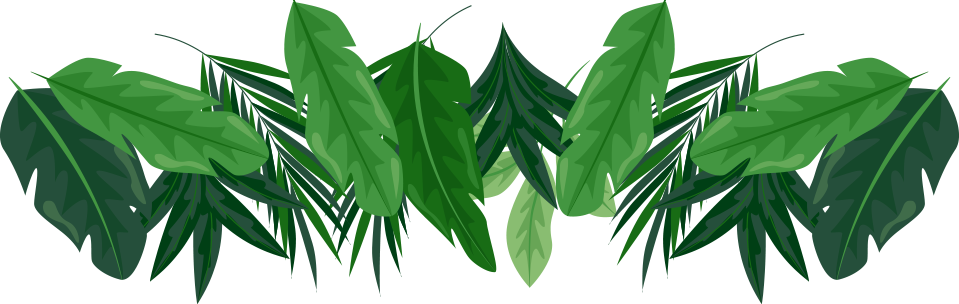
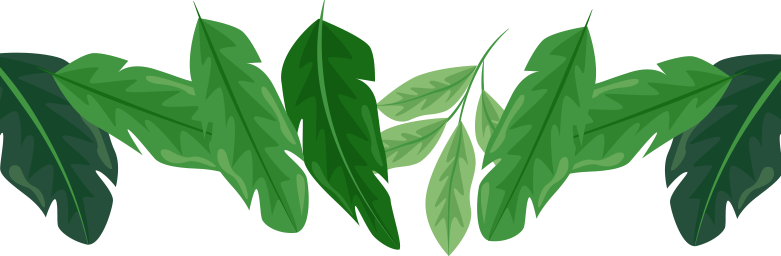
更新頁首的草叢_上、草叢_下圖片，依新尺寸重算位移
- 草叢_上：959×304 → 781×256，上移改為 5.46vw
- 草叢_下：819×317 → 781×283，下移改為 6.04vw
- 註解補上「換圖時尺寸改變要重算」的提醒

diff --git a/src/components/Header/Header.module.css b/src/components/Header/Header.module.css
@@ -6,13 +6,14 @@
   color: #fff;
   box-shadow: var(--shadow-sm);
   /* 頁首背景：四層疊在一起（寫在前面的在上層）
-       1. 草叢_上（959×304）：橫向排 3 張，貼齊頂端再往上移半張高度，只露出垂下來的葉子
-       2. 草叢_下（819×317）：橫向排 3 張，貼齊底部再往下移半張高度，只露出長上來的葉子
+       1. 草叢_上（781×256）：橫向排 3 張，貼齊頂端再往上移半張高度，只露出垂下來的葉子
+       2. 草叢_下（781×283）：橫向排 3 張，貼齊底部再往下移半張高度，只露出長上來的葉子
        3. 半透明深綠色：只壓暗底圖（底圖是淺綠色，白字直接放上去會看不清楚）
        4. 草叢_底：橫向重複排 2 張，頁首比圖高時垂直方向也接著重複
      「半張高度」會隨頁首寬度改變，用 vw 計算：每張寬 33.33vw，高度 = 33.33vw × 原圖高 ÷ 原圖寬
-       草叢_上：33.33 × 304 ÷ 959 ≈ 10.57vw，一半 ≈ 5.28vw
-       草叢_下：33.33 × 317 ÷ 819 ≈ 12.90vw，一半 ≈ 6.45vw
+       草叢_上：33.33 × 256 ÷ 781 ≈ 10.93vw，一半 ≈ 5.46vw
+       草叢_下：33.33 × 283 ÷ 781 ≈ 12.08vw，一半 ≈ 6.04vw
+     ※ 換圖時如果尺寸改變，這兩個數字要重算
      background-color 是圖片還沒載入時的底色 */
   background-color: var(--color-primary);
   background-image:
@@ -23,8 +24,8 @@
   background-size: calc(100% / 3) auto, calc(100% / 3) auto, 100% 100%, 50% auto;
   background-repeat: repeat-x, repeat-x, no-repeat, repeat;
   background-position:
-    left 0 top -5.28vw,
-    left 0 bottom -6.45vw,
+    left 0 top -5.46vw,
+    left 0 bottom -6.04vw,
     center,
     left center;
 }
